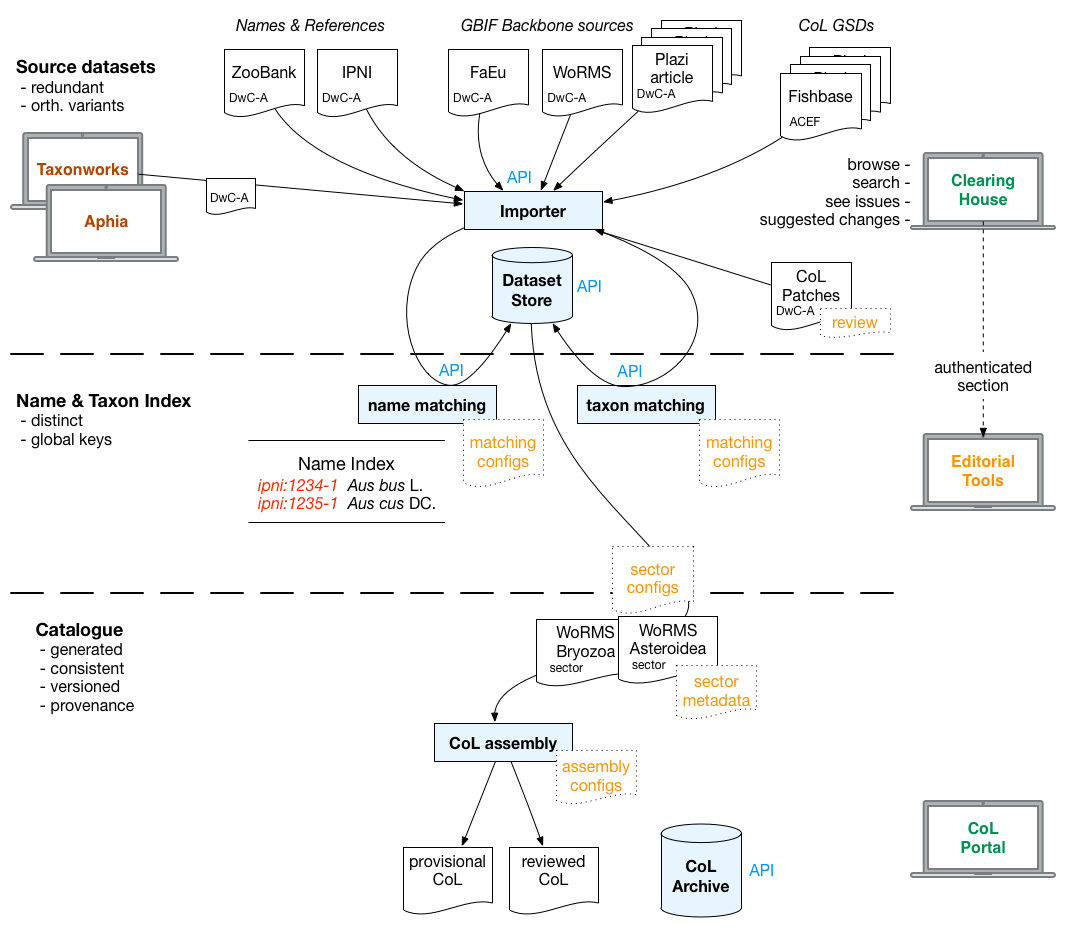
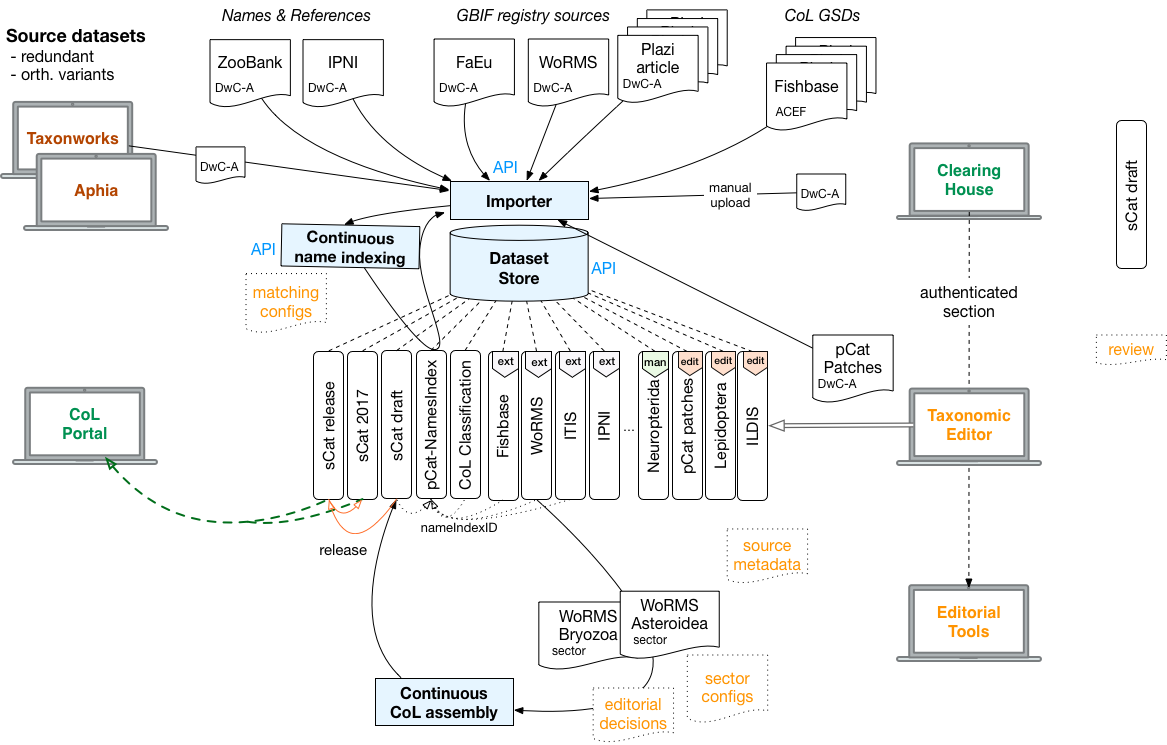
Update assembly doc with editor and continuous draft col

diff --git a/docs/ASSEMBLY.md b/docs/ASSEMBLY.md
@@ -3,14 +3,24 @@ The Catalogue of Life intends to produce two aggregated catalogues that are asse
 
 Both of these assembly processes are semi-automated and need editorial work and reviewing in order to build a high quality catalogue. This is especially true for the scrutinized catalogue.
 
+
 # Source Datasets
-The first step towards the assembly of both catalogues is to get the source datasets into a common structure and to make sure there are no obvious syntactical or semantic errors. The CoL Clearinghouse is used to register URL accessible datasets in various standard formats and import them into a common database model. The Clearinghouse importer interprets literal string data into well known enumerations, objects and relations, thereby flagging rectified or detected potential problems in the entire range of basic string reading to very specific taxonomic integrity checks.
+The first step towards the assembly of both catalogues is to get the source datasets into a common structure and to make sure there are no obvious syntactical or semantic errors. At the heart of the Clearinghouse is a dataset store that efficiently stores entire, self contained datasets and exposes them in a rich API. Datasets in the store can be of 3 kinds:
+
+ - externally managed and published on a public URL
+ - externally managed and manually uploaded
+ - managed within the Clearinghouse using the taxonomic editor
+
+For external datasets the CoL Clearinghouse is used to register URL accessible datasets in various standard formats and import them into a common database model. The Clearinghouse importer interprets literal string data into well known enumerations, objects and relations, thereby flagging rectified or detected potential problems in the entire range of basic string reading to very specific taxonomic integrity checks.
 
 The content of each dataset in the [Clearinghouse can be browsed and searched](https://sp2000.github.io/colplus/api/api.html) on its own with the primary purpose to allow a quality assesment and detailed data review. For that reason every record also keeps track of the exact verbatim data as it came in and all fallged importing issues can be used for filters to navigate data.
 
+![clearinghouse](overview.png)
+
 
 ## Dataset publication
-Datasets that should be added to the CoL need to be accessible in a standard format from a public URL. The URL should remain the same if new versions of the dataset are published. DwC Archives and the CoL ACEF format are handled currently. It is expected to also cover TCS or newly defined formats in the future. Converting data from highly custom formats into DwC-A or ACEF is expected to be done either by the publishing source directly or with the help of the CoL data manager & the GBIF helpdesk. For sources in relational databases, Excel spreadsheets or CSVs the GBIF IPT can be used to assist in this task. 
+Datasets that should be added to the CoL need to be present in the dataset store.
+If managed externally the data needs to be accessible in a standard format, ideally from a public URL. The URL should remain the same if new versions of the dataset are published. This allows a continuous importer to keep the version in the dataset store up to date. DwC Archives and the CoL ACEF format are handled currently. It is expected to also cover TCS or newly defined formats in the future. Converting data from highly custom formats into DwC-A or ACEF is expected to be done either by the publishing source directly or with the help of the CoL data manager & the GBIF helpdesk. For sources in relational databases, Excel spreadsheets or CSVs the GBIF IPT can be used to assist in this task. 
 
 All existing GSDs inside the CoL have been exported from the CoL global assembly database into [ACEF compliant files](https://github.com/Sp2000/colplus-repo) so that the current version of the data is immediately available even if the original sources are not yet published in a standard format. This can be repeated at any time and should at least be done once more when leaving behind the old workbench.
 
@@ -48,6 +58,14 @@ A dataset import does many things. Most notably:
  - generate dataset import statistics: number of names by status, rank, issues etc. enabling time series for historic imports. Track [diffs of all names](https://github.com/Sp2000/colplus-backend/issues/138)  between versions
 
 
+## Taxonomic Editor
+It is proposed to implement a basic taxonomic editor that allows a community of users to manage a dataset in the Clearinghouse. This editor can therefore also be used to manage the names index and apply final changes to the CoL before it is released.
+
+The editor is meant to be basic and should leave all decisions, restrictions and checks to the users at this stage. Manipulation of names, their relations, taxa & synonyms, vernacular names and distributions will be possible. To get started data archives can be uploaded. For subsequent bulk uploads datasets can be merged. This allows a user to upload data into a new dataset, review it, apply small fixes or remove unused parts and finally merge it into his main dataset.
+
+Initially data is not expected to be versioned.
+
+
 # Assembly of the Scrutinized Catalogue
 All data passes a number of steps before it ends up in the public Catalogue of Life (sCat):
 
@@ -55,18 +73,18 @@ All data passes a number of steps before it ends up in the public Catalogue of L
  2. Data import into the Clearinghouse with data interpretations & issue flagging
  3. Define relevant sectors from dataset and attach them to the CoL management cssification (MC)
  4. Review of sector including duplicate detection across all sectors, online report back to editors and data providers, fixes in the source dataset and reimport revised version until accepted or with a scheduled new update
- 5. Assemble a preliminary sCat from accepted sectors for review by editorial board and data providers
- 6. Release sCat
+ 5. Review of draft sCat by editorial board and data providers. Final adhoc fixes via taxonomic editor.
+ 6. Release sCat, archiving previous release
 
 ## Managing the CoL Management Classification
-At the heart of the sCat lies the [management classification of the CoL](http://www.catalogueoflife.org/col/info/hierarchy). It is a special dataset in the Clearinghouse that contains a taxonomic tree down to genus level as a snapshot of latest version of integrated CoL; it may include synonyms and should offers species estimates for higher groups together with account of acctual species ans children taxa in the sector which show up in the public portal and can be used for gap analysis. The MC is maintained by the CoL editorial board using a basic tree editor with species estimates forms provided by the Clearinghouse.
+At the heart of the sCat lies the [management classification of the CoL](http://www.catalogueoflife.org/col/info/hierarchy). It is a special dataset in the Clearinghouse that contains a taxonomic tree down to order or family level which acts as the default classification for the CoL. It may include synonyms and offers species estimates for higher groups which show up in the public portal and can be used for gap analysis by comparing them with actual species contained in the CoL. 
 
-The MC can be seen as the backbone of the sCat where all other sources are attached to.
+The MC is maintained by the CoL editorial board using the taxonomic editor provided by the Clearinghouse. It can be seen as the backbone of the sCat where all other sources are attached to.
 
 ![mc](management-classification.png)
 
 ## Taxonomic Sectors & Col Sources
-A single taxonomic group attached to the MC is called a taxonomic *sector*. A single source dataset may provide multiple sectors, e.g. Fishbase, WoRMS or ITIS. In the case of [Fishbase](http://www.catalogueoflife.org/annual-checklist/2017/details/database/id/10) the sCat groups all 6 sectors under the same umbrella, listing them all as Fishbase with the same contact and credits. This is different for larger "cluster" source like WoRMS or ITIS that provide many sectors, but like to be cited differently for most sectors, e.g. [WoRMS Bryozoa](http://www.catalogueoflife.org/annual-checklist/2017/details/database/id/81) and [WoRMS Hydrrozoa](http://www.catalogueoflife.org/annual-checklist/2017/details/database/id/112).
+A single taxonomic group attached to the MC is called a taxonomic *sector*. A single source dataset may provide multiple sectors, e.g. Fishbase, WoRMS or ITIS. In the case of [Fishbase](http://www.catalogueoflife.org/annual-checklist/2017/details/database/id/10) the sCat groups all 6 sectors under the same umbrella, listing them all as Fishbase with the same contact and credits. This is different for larger "cluster" source like WoRMS or ITIS that provide many sectors, but like to be cited differently for most sectors, e.g. [WoRMS Bryozoa](http://www.catalogueoflife.org/annual-checklist/2017/details/database/id/81) and [WoRMS Hydrozoa](http://www.catalogueoflife.org/annual-checklist/2017/details/database/id/112).
 
 Sectors can therefore be grouped into CoL sources that provide common citation metadata which can be maintained by the editorial board and in absence of inputs defaults to the metadata of their parent dataset.
 
@@ -89,16 +107,22 @@ The Clearinghouse provides generic [discussion threads](https://github.com/Sp200
 
 A number of names from a dataset sharing the same problem can thus be grouped as a discussion which keeps track of its state (e.g. under review, accepted, done). By using a discussion linked to records with issues we can track matching editorial decisions and recognise issues that still need editorial attention from those which have been addressed already. 
 
-## Assembling a preliminary sCat
-Automatically or manually accepted sectors are copied to a preliminary sCat so they are immutable and available for subsequent Catalogues. The preliminary sCat can only by modified by replacing entire sectors or changing the management classification (MC) itself. When a sector is attached to a higher part of the management classification it becomes the authority for that part of the tree and defines the included classification which can be different from the hidden MC. 
+## The sCat draft
+A draft sCat is always kept up to date with all configured sectors and editorial decisions. This provides the editorial board with a full dataset representing the latest version of the assembly. Whenever a new sector is mapped, its definitions changed or editorial decisions are added or removed the draft will be updated asyncroneously, always reporting whether its in sync with all decisions.
 
-Similarily chresonyms, manuscript and placeholder names known by the [Names Index](#names-index) are ignored and not copied to the sCat.
+When a sector is attached to a higher part of the management classification it becomes the authority for that part of the tree and defines the included classification which can be different from the then hidden MC. 
 
-When a sector is copied to the preliminary Catalogue missing transliterations for vernacular names are generated automatically.
+When updated data in the underlying datasets of sectors is available the editor will be notified and asked to also update the respective sectors in the sCat draft. This leaves all control with the editor who can decide to include updates immediately or at a later stage.
 
-Optionally a CoL source can be configured to prefer the exact name spelling from a nomenclator and to apply the objective synonyms from the nomenlcator.
+When a sector is copied to the draft Catalogue missing transliterations for vernacular names are generated automatically. Chresonyms, manuscript and placeholder names known by the [Names Index](#names-index) are ignored and not copied to the sCat.
+
+Optionally a CoL source can be configured to prefer the exact name spelling from a nomenclator and to apply its objective synonymy.
     
-The preliminary CoL can be browsed and searched for review just as any other dataset in the Clearinghouse, but also in a preview portal similar to the main public one before it gets released. When released it will be copied into the immutable CoL archive that drives the public portal.
+The draft CoL can be browsed and searched for review just as any other dataset in the Clearinghouse, but also in a preview portal similar to the main public one before it gets released. 
+
+Before releasing the draft final edits can be applied using the taxonomic editor. This enables the editor to apply small fixes without waiting for an updated source dataset which can delay publication considerably. Usually such changes are in agreement with the data provider. As these final edits can be anywhere in the data they will not be recorded like sector definitions or main editorial decisions. This means they will be lost and get overwritten when a sector is updated from its underlying source.
+
+When released a new immutable dataset is created which will feed the public portal and the last release will be archived as a regular dataset which can be accessed.
 
 
 # Assembling the Provisional Catalogue
